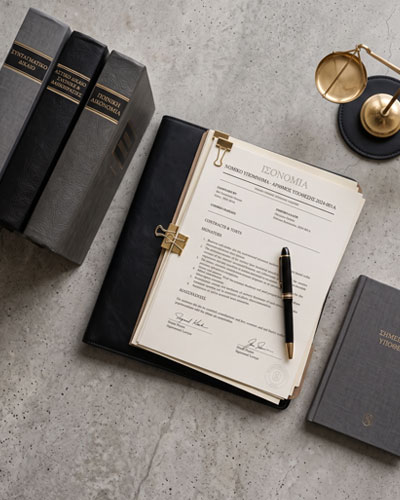
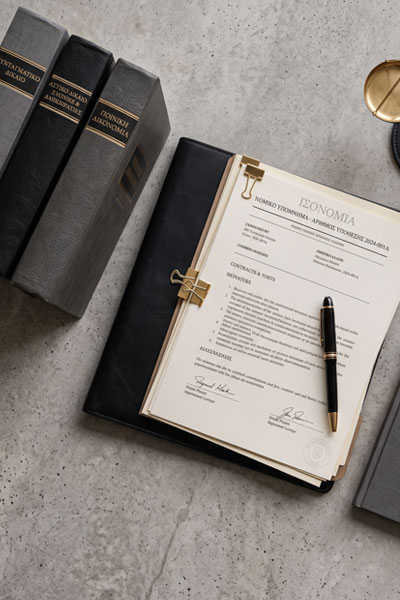
Replace practice intro image with high-quality portrait version
- Replaced practice-intro-image.jpg with 400×600px portrait orientation
- Updated CSS grid layout: 1fr + 400px (from 1fr + 500px)
- Image displays without distortion or cropping
- Portrait orientation better showcases desk/document composition

Image dimensions: 400×600px (aspect ratio 2:3)

diff --git a/assets/shared/style.css b/assets/shared/style.css
@@ -306,7 +306,7 @@ section { padding: clamp(3.4rem, 7vw, 5.5rem) 0; }
 /* Practice intro content — text + image grid */
 .practice-intro-content {
   display: grid;
-  grid-template-columns: 1fr 500px;
+  grid-template-columns: 1fr 400px;
   gap: clamp(2rem, 5vw, 3.5rem);
   align-items: start;
 }
@@ -325,7 +325,7 @@ section { padding: clamp(3.4rem, 7vw, 5.5rem) 0; }
     gap: 2rem;
   }
   .practice-intro-image {
-    max-width: 400px;
+    max-width: 350px;
     margin: 0 auto;
   }
 }
